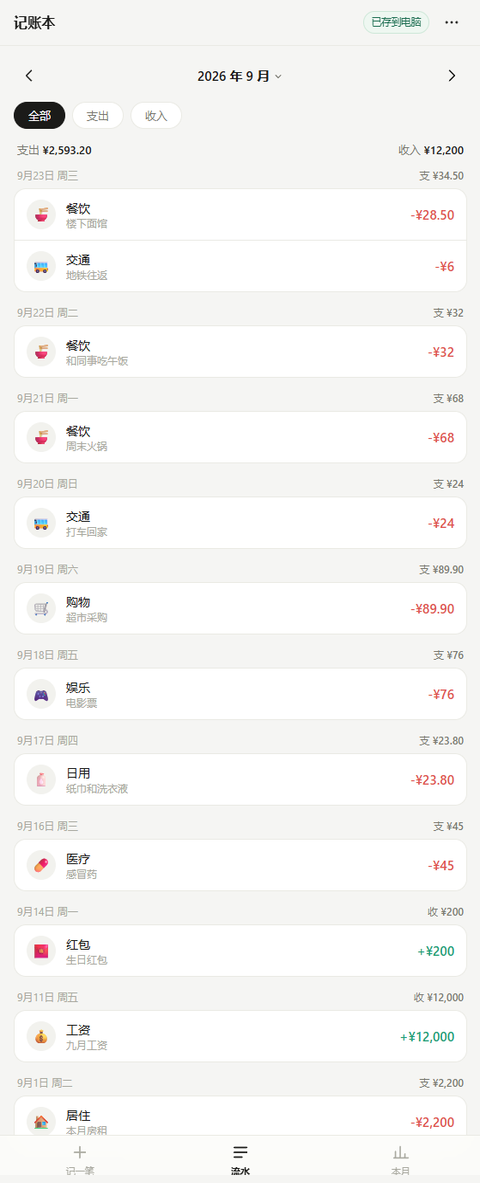
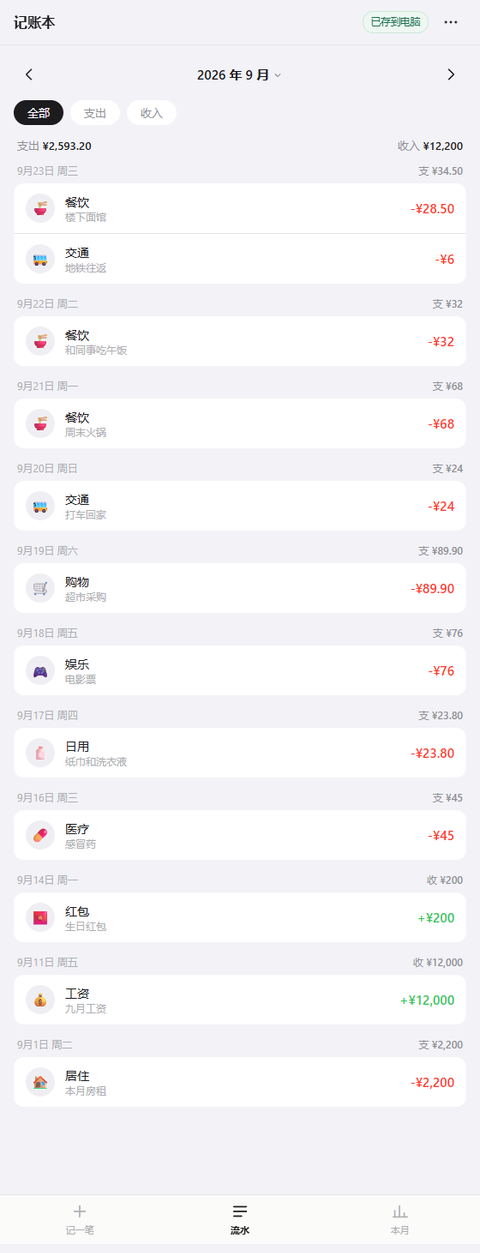
fix: 写接口加同站校验（防 CSRF），预览图按新界面重截
- 保存数据 / 停止服务两个写接口加同站校验：要求 application/json，
  且带 Origin 时必须与 Host 一致，防止别的网页隔空改账本或把服务停掉
- 主题开关绑定加元素空值兜底
- 隐私说明补「局域网内其他设备可访问」的提醒
- 三张预览图按新界面重截

diff --git a/server.js b/server.js
@@ -202,6 +202,37 @@ function isServable(filePath) {
   return segs[0].toLowerCase() === 'assets';
 }
 
+/* 写操作的「同站」校验，防「网页里偷偷 POST 到本机端口」这类 CSRF：
+   1) 要求 Content-Type: application/json —— 跨站的简单请求（表单提交、no-cors fetch）
+      只可能带 text/plain / form-urlencoded，直接 415 挡掉；带 JSON 类型的跨站请求
+      会先发预检（OPTIONS），而这里不回应预检，也就过不来；
+   2) 再核对 Origin —— 带了 Origin 且主机名跟请求的 Host 对不上的，一律 403。
+   同源请求（本机浏览器、手机浏览器直接打开本服务）两项都天然满足，不受影响。 */
+function sameOrigin(req) {
+  const origin = req.headers.origin;
+  if (!origin) { return true; }
+  try {
+    return new URL(origin).host === String(req.headers.host || '');
+  } catch (e) {
+    return false;
+  }
+}
+
+function requireSameSite(req, res) {
+  const ct = String(req.headers['content-type'] || '');
+  if (ct.indexOf('application/json') !== 0) {
+    res.writeHead(415, { 'Content-Type': 'text/plain; charset=utf-8' });
+    res.end('Unsupported Media Type');
+    return false;
+  }
+  if (!sameOrigin(req)) {
+    res.writeHead(403, { 'Content-Type': 'text/plain; charset=utf-8' });
+    res.end('Forbidden');
+    return false;
+  }
+  return true;
+}
+
 function serveStatic(pathname, res) {
   const rel = pathname === '/' ? '/index.html' : pathname;
   const filePath = path.join(ROOT, path.normalize(rel));
@@ -266,6 +297,7 @@ const server = http.createServer(function (req, res) {
       return;
     }
     if (req.method === 'PUT' || req.method === 'POST') {
+      if (!requireSameSite(req, res)) { return; }
       readBody(req, function (text) {
         if (text === null) { sendJSON(res, 400, { error: '请求体过大或读取失败' }); return; }
         let payload;
@@ -309,6 +341,8 @@ const server = http.createServer(function (req, res) {
       res.end();
       return;
     }
+    /* 同 /api/db：不允许别的网页隔空把服务停掉 */
+    if (!requireSameSite(req, res)) { return; }
     sendJSON(res, 200, { ok: true });
     console.log('');
     console.log('  网页端点了「停止服务」，正在退出。');

diff --git a/assets/app.js b/assets/app.js
@@ -2206,12 +2206,15 @@ $('btnCloseSheet').addEventListener('click', closeSheets);
 $('btnCloseImport').addEventListener('click', closeSheets);
 elMask.addEventListener('click', closeSheets);
 
-/* 外观三段开关：跟随系统 / 浅色 / 深色 */
-elThemeSeg.addEventListener('click', function (e) {
-  var btn = e.target.closest('.seg-item');
-  if (!btn) { return; }
-  applyTheme(btn.getAttribute('data-theme'));
-});
+/* 外观三段开关：跟随系统 / 浅色 / 深色
+   （万一页面上没有这个元素——比如浏览器缓存了旧版 index.html——跳过，别让后面的绑定全崩） */
+if (elThemeSeg) {
+  elThemeSeg.addEventListener('click', function (e) {
+    var btn = e.target.closest('.seg-item');
+    if (!btn) { return; }
+    applyTheme(btn.getAttribute('data-theme'));
+  });
+}
 
 $('btnExport').addEventListener('click', downloadBackup);
 $('btnExportText').addEventListener('click', copyBackupText);

diff --git a/README.md b/README.md
@@ -843,6 +843,12 @@ set LEDGER_NO_BROWSER=1 && node server.js
 README 里的徽章图片来自 shields.io，只有在你用浏览器看 GitHub 页面时才会加载，
 和程序本身无关。
 
+⚠ **注意局域网这一层**：为了让手机能用，服务默认监听整个局域网——
+**同一个 WiFi 下的其他设备只要知道地址，就能读到、也能改你的账本**。
+所以在公司、宿舍、咖啡店这类公共网络下，别一直把它开着；用完点一下「停止服务」。
+（写数据的接口做了同站校验，网页里藏的脚本没法隔空改你的数据或把服务停掉；
+但「同一网络下的设备直接访问」是设计使然，只能靠上面这条使用习惯来防。）
+
 ## 发现问题 / 想加功能
 
 欢迎提 issue。为了让问题更好定位，麻烦带上：
@@ -898,6 +904,7 @@ README 里的徽章图片来自 shields.io，只有在你用浏览器看 GitHub 
 | **v0.3.3** | 词库从 `app.js` 里抽出来，独立成 `assets/分类词库.js`，用中文分类名分组、一个词一行，用户照着注释就能自己加词，改完刷新页面即生效；词库写错 / 清空 / 删掉都不会导致记账本打不开，会退回内置简易规则并在界面提示；同组词按长度优先匹配，避免「中国移动」被「移动」抢走 |
 | **v0.3.4** | 游戏充值归到「娱乐」：把点券 / 皮肤 / 通行证等游戏词从「购物」挪进「娱乐」的游戏组，并补了常见游戏名与平台（无畏契约、英雄联盟、王者荣耀、原神、steam、米哈游……）；只收跟游戏强绑定的写法（写「游戏月卡」不写「月卡」），避免把超市会员卡误伤成游戏。用真实流水逐条比对，只有「无畏点券」这一条分类变化，其余零改动 |
 | **v0.3.5** | 拿真实微信账单校对词库：便利店改归「购物」（原在日用），打印 / 复印改归「日用」（原在学习），并补了校园饭卡 / 校园卡充值（归餐饮）；顺手删掉几个会误伤正常句子的泛词（便利 / 十足 / 之上 / 全家）。该账单全部认出、若干笔落「其他」，其中只有 若干笔分类变化，正是要改的那几笔 |
+| **v0.3.12** | 安全加固：写接口（保存数据 / 停止服务）加同站校验，防止别有用心的网页隔空改账本或把服务停掉；隐私说明补上「局域网内其他设备可访问」的提醒；README 三张预览图按新界面重截 |
 | **v0.3.11** | 外观三段开关（数据管理面板：跟随系统 / 浅色 / 深色，记住选择），趋势图当月柱降饱和不晃眼；iOS 风格铺满流水与记一笔两页（全部卡片去描边、输入框改填充式） |
 | **v0.3.10** | 配色升级为 iOS 系统色并支持深色模式：浅色用系统分组背景 / 标签 / 分隔线语义色（全部收编为 CSS 变量），深色跟随系统自动切换、零 JS；「本月」页卡片改为无描边分组卡样式，作为整套风格的样板 |
 | **v0.3.9** | 交互动效打磨：本月页排行条与趋势柱「生长式」入场，年月面板与底部抽屉开合同边进出（进场稍慢、退场更快），标签与按钮全面带按压反馈；只动 transform/opacity 保证流畅，系统「减弱动态效果」时自动退化 |
